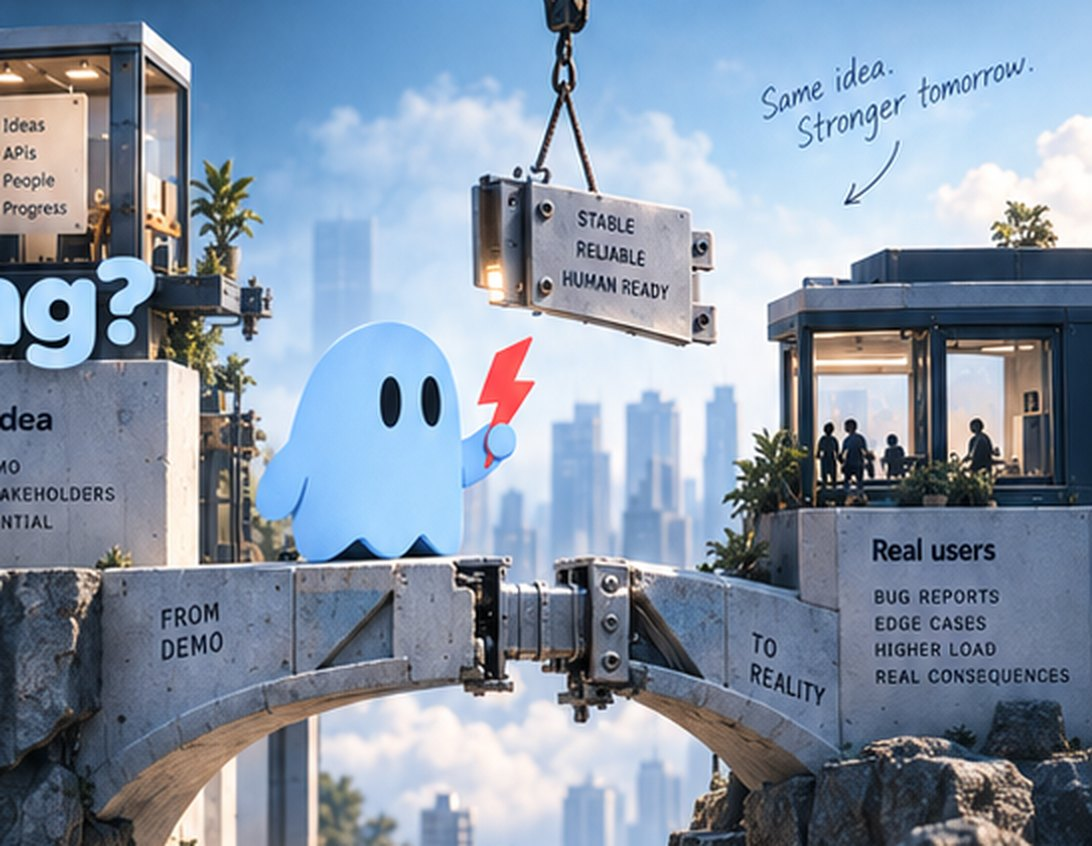
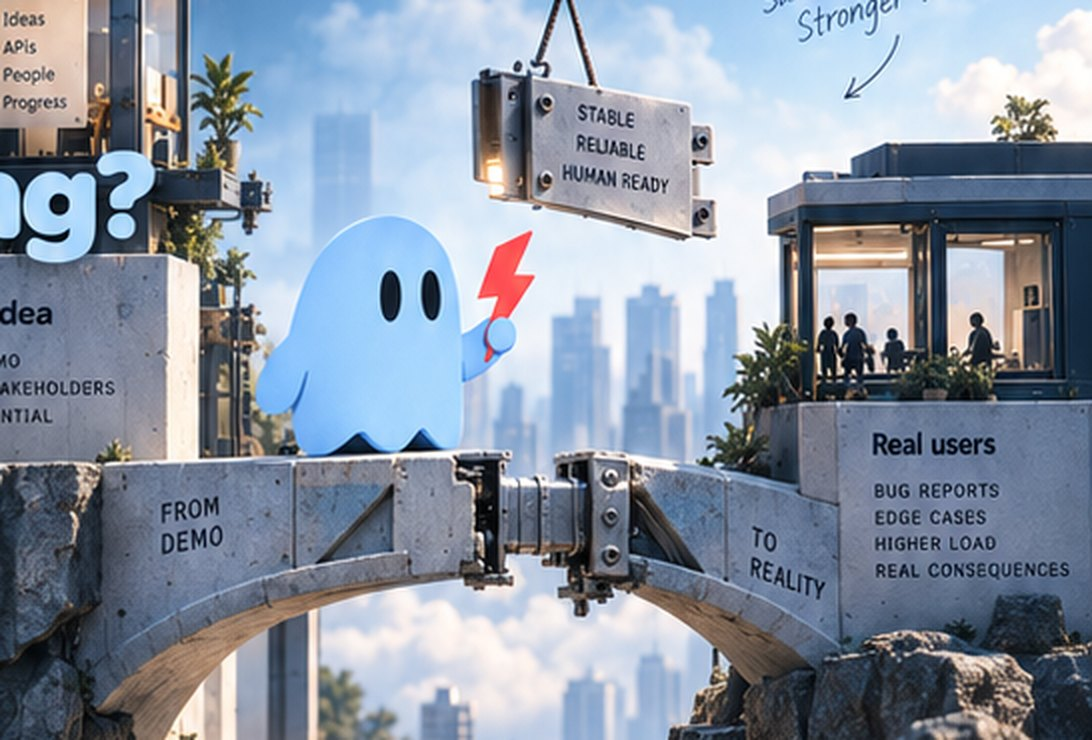
Make the annotations legible and seat the ghost in the scene
The hand-lettered notes were white script straight onto artwork, invisible
wherever a plate was bright. They now take an `onArt` flag that gives them a
soft dark halo.

The ghost was about twice the size it should be and floating in front of the
plate rather than standing in it. Halved, and given a contact shadow — a lit 3D
object over a photograph reads as a cut-out until something grounds it.

Also re-cropped two plates to start below the comps' own hand-lettered notes,
which the old bounds sliced through, and dropped /work back to the standard
scrim, which was dimming that plate's ghost into a smudge.

diff --git a/src/components/Scene/SceneHero.module.css b/src/components/Scene/SceneHero.module.css
@@ -66,13 +66,33 @@
   );
 }
 
+/* The comps put the mascot *in* the scene: small, standing on the set, at a
+   scale that reads as a character in the space rather than a sticker over it.
+   It was roughly twice this size and floating, which is what made it look
+   pasted on. */
 .ghost {
   position: absolute;
   z-index: 2;
-  right: clamp(4%, 10vw, 18%);
-  bottom: 10%;
-  width: clamp(150px, 22vw, 300px);
+  right: clamp(6%, 12vw, 22%);
+  bottom: 12%;
+  width: clamp(96px, 13vw, 190px);
   aspect-ratio: 1;
+  /* Seats it on the surface. Without a contact shadow a lit 3D object over a
+     photograph always reads as a cut-out. */
+  filter: drop-shadow(0 14px 18px rgba(4, 8, 14, 0.55));
+}
+
+/* The pool of shadow the body would actually cast on the floor beneath it. */
+.ghost::after {
+  content: '';
+  position: absolute;
+  left: 12%;
+  right: 12%;
+  bottom: -4%;
+  height: 12%;
+  border-radius: 50%;
+  background: radial-gradient(ellipse at center, rgba(4, 8, 14, 0.55), rgba(4, 8, 14, 0) 70%);
+  z-index: -1;
 }
 
 .inner {

diff --git a/src/components/Scene/Annotation.module.css b/src/components/Scene/Annotation.module.css
@@ -6,7 +6,21 @@
   font-size: clamp(17px, 1.9vw, 23px);
   line-height: 1.25;
   color: currentColor;
-  opacity: 0.85;
+}
+
+/* These sit directly on artwork, and the plates are bright in places, so the
+   mark has to carry its own ground. A soft dark halo rather than a hard drop
+   shadow — it reads as ink on the photograph instead of a floating label. */
+.onArt {
+  text-shadow:
+    0 1px 2px rgba(6, 10, 16, 0.9),
+    0 2px 10px rgba(6, 10, 16, 0.75),
+    0 0 22px rgba(6, 10, 16, 0.6);
+}
+
+.onArt .arrowLeft,
+.onArt .arrowRight {
+  filter: drop-shadow(0 1px 3px rgba(6, 10, 16, 0.9));
 }
 
 .arrowLeft,
@@ -15,7 +29,7 @@
   width: 44px;
   height: 36px;
   top: 100%;
-  opacity: 0.7;
+  opacity: 0.9;
   pointer-events: none;
 }
 

diff --git a/src/app/rescue/page.tsx b/src/app/rescue/page.tsx
@@ -41,7 +41,7 @@ export default function RescuePage() {
         alt=""
         side="left"
         minHeight="min(74vh, 620px)"
-        objectPosition="72% center"
+        objectPosition="70% 62%"
         scrim="heavy"
       >
         <div>
@@ -61,7 +61,7 @@ export default function RescuePage() {
             {['Debug', 'Stabilize', 'Scale', 'Get back to building'].map(x => <li key={x}>{x}</li>)}
           </ul>
         </div>
-        <Annotation className={styles.heroNote} arrow="down-left">
+        <Annotation className={styles.heroNote} arrow="down-left" onArt>
           Same idea.<br />Stronger tomorrow.
         </Annotation>
         </SceneHero>

diff --git a/src/app/work/page.tsx b/src/app/work/page.tsx
@@ -24,8 +24,7 @@ export default function WorkPage() {
         alt=""
         side="left"
         minHeight="min(66vh, 540px)"
-        scrim="heavy"
-        objectPosition="70% center"
+        objectPosition="78% center"
       >
         <div>
           <p className={styles.pretitle}>Work</p>
@@ -39,7 +38,7 @@ export default function WorkPage() {
             rescue. Depth beats breadth.
           </p>
         </div>
-        <Annotation className={styles.heroNote} arrow="down-left">
+        <Annotation className={styles.heroNote} arrow="down-left" onArt>
           Small steps.<br />Bigger things.
         </Annotation>
         </SceneHero>

diff --git a/src/components/Scene/Annotation.tsx b/src/components/Scene/Annotation.tsx
@@ -10,14 +10,20 @@ import styles from './Annotation.module.css';
 export default function Annotation({
   children,
   arrow = 'none',
+  onArt = false,
   className,
 }: {
   children: React.ReactNode;
   arrow?: 'down-left' | 'down-right' | 'none';
+  /** Sitting on a photographic plate, where it needs its own ground. */
+  onArt?: boolean;
   className?: string;
 }) {
   return (
-    <span aria-hidden="true" className={`${styles.note} ${className ?? ''}`}>
+    <span
+      aria-hidden="true"
+      className={`${styles.note} ${onArt ? styles.onArt : ''} ${className ?? ''}`}
+    >
       {children}
       {arrow !== 'none' && (
         <svg

diff --git a/src/components/Home/LandingSection.tsx b/src/components/Home/LandingSection.tsx
@@ -83,7 +83,7 @@ export default function LandingSection({ chatRef, initialType }: Props) {
             {CAPABILITIES.map(c => <li key={c}>{c}</li>)}
           </ul>
         </div>
-        <Annotation className={styles.heroNote} arrow="down-left">
+        <Annotation className={styles.heroNote} arrow="down-left" onArt>
           Big ideas.<br />Working parts.
         </Annotation>
       </SceneHero>

diff --git a/src/components/Home/LandingSection.module.css b/src/components/Home/LandingSection.module.css
@@ -75,10 +75,11 @@
 
 .heroNote {
   position: absolute;
-  top: clamp(90px, 16vh, 150px);
-  right: clamp(24px, 6vw, 90px);
+  top: clamp(74px, 13vh, 128px);
+  right: clamp(24px, 5vw, 72px);
   color: #fff;
   text-align: right;
+  font-size: clamp(19px, 2.1vw, 27px);
   z-index: 3;
 }
 

diff --git a/ai-progress/2026-09-10-comps-redesign.md b/ai-progress/2026-09-10-comps-redesign.md
@@ -113,3 +113,27 @@ before measuring. Verified against the real PDF output.
   sits at that page's CTA instead.
 - `about-city` has "brighter tomorrow" hand-lettered into it; our own
   `Annotation` there was removed rather than print the same words twice.
+
+---
+
+## Round three — legibility and the ghost's scale
+
+Feedback: the hand-lettered note was invisible, and the ghost looked better in
+the comps, where it is *working in the scene* rather than sitting on top of it.
+
+- **Annotations** now take an `onArt` flag that gives them a soft dark halo
+  (layered text-shadow, plus a drop-shadow on the arrow). White script on a
+  photographic plate had nothing behind it wherever the art was bright.
+- **The ghost was roughly twice the size it should be, and floating.** Cut to
+  `clamp(96px, 13vw, 190px)` and given both a drop-shadow and an elliptical
+  contact shadow on the floor beneath it. A lit 3D object over a photograph
+  reads as a cut-out until something grounds it.
+- Re-cropped `rescue-bridge` and `work-shelf` to start *below* the comps' own
+  hand-lettered notes — the old bounds sliced through them, leaving a fragment
+  that looked like damage and repeated words our annotation already said.
+- `/work` went back to the standard scrim. The heavy one was dimming that
+  plate's own ghost into a grey smudge; the headline sits far enough left that
+  the gradient is near-solid there regardless.
+- Learned while tuning: `object-position` has very little travel when the plate
+  is only slightly wider than its frame (~230px of sweep on the work hero), so
+  framing has to be fixed in the crop, not in CSS.
